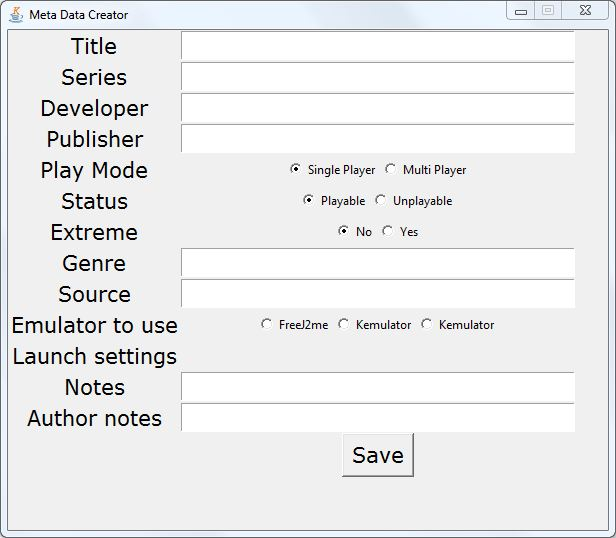
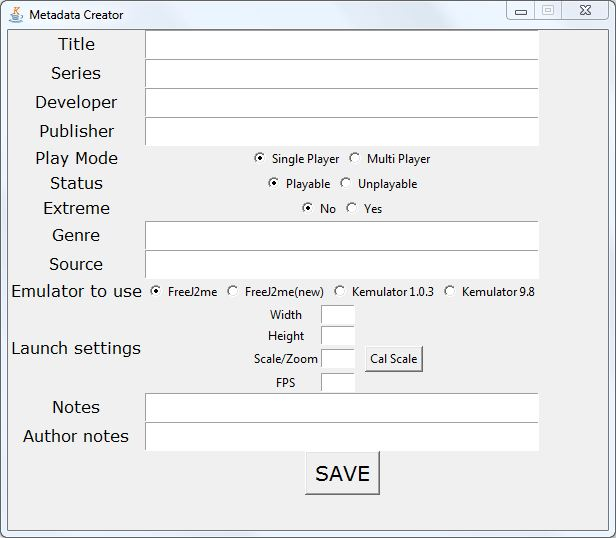
Added a button to calculate zoom/scale
Scale button calculates the zoom level according to the height entered.

diff --git a/Kahvibreak_curation_packager.py b/Kahvibreak_curation_packager.py
@@ -13,10 +13,20 @@ def metadata_window():
     top.iconbitmap('icon.ico')
     top.geometry('600x500')
     top.resizable(False, False)
-    '''def radio_button_function(a):
-        if a==1 or a==2:
-            if a=='''
-            
+    
+    def cal_scale():
+        height=game_height.get()
+        if (height=='128') or (height=='65'):
+            scale_value='400'
+        elif (height=='160'):
+            scale_value='300'
+
+        elif (height=='208') or (height=='220'):
+            scale_value='200'
+        else:
+            scale_value='100'
+        zoom_level.delete(0, END)
+        zoom_level.insert(0,scale_value)
     def save_to_file():
     
         fileout=open('temp/game/meta.txt','w')
@@ -67,7 +77,7 @@ def metadata_window():
     EntryBox=[0]*13
 
     for i in range(0,13):
-        LabelList[i]=Label(top,text=LabelListText[i],font=('Verdana',16))
+        LabelList[i]=Label(top,text=LabelListText[i],font=('Verdana',12))
         LabelList[i].grid(row=i,column=0)
         EntryBox[i]=Entry(top,font=('Verdana', 16), width=30)
         EntryBox[i].grid(row=i, column=1)
@@ -75,9 +85,9 @@ def metadata_window():
 
 
 
-    save_btn=Button(top,font=('Verdana', 16),text="Save",command=save_to_file)
+    save_btn=Button(top,font=('Verdana', 15),text="SAVE",command=save_to_file)
     save_btn.grid(row=14,column=1)
-    
+   
     #radio buttons
     #Play Mode
     EntryBox[4].grid_forget()
@@ -130,9 +140,11 @@ def metadata_window():
     emulator.set('Software\FreeLaunch.bat') #default value
     freej2me=Radiobutton(frame5,text='FreeJ2me', var=emulator,value='Software\FreeLaunch.bat')
     freej2me.pack(side=LEFT)
-    kemulator_new=Radiobutton(frame5,text='Kemulator', var=emulator,value='Software\KLaunch.bat')
+    freej2me_new=Radiobutton(frame5,text='FreeJ2me(new)', var=emulator,value='Software\FreeLaunch0.4.2.bat')
+    freej2me_new.pack(side=LEFT)
+    kemulator_new=Radiobutton(frame5,text='Kemulator 1.0.3', var=emulator,value='Software\KLaunch.bat')
     kemulator_new.pack(side=LEFT)
-    kemulator_old=Radiobutton(frame5,text='Kemulator', var=emulator,value='Software\KLaunch98.bat')
+    kemulator_old=Radiobutton(frame5,text='Kemulator 9.8', var=emulator,value='Software\KLaunch98.bat')
     kemulator_old.pack(side=LEFT)
     
 
@@ -141,29 +153,34 @@ def metadata_window():
     frame6=Frame(top)
     frame6.grid(row=10,column=1)
     
+    
+    cal_scale_btn=Button(frame6,text='Cal Scale',command=cal_scale)
+    cal_scale_btn.grid(row=2,column=2,padx=10)
+    
+    
     game_width_label=Label(frame6, text='Width')
     game_width_label.grid(row=0,column=0)
     
     game_height_label=Label(frame6, text='Height')
     game_height_label.grid(row=1,column=0)
     
-    zoom_level_label=Label(frame6, text='Zoom')
-    zoom_level_label.grid(row=2,column=0)
+    scale_level_label=Label(frame6, text='Scale/Zoom')
+    scale_level_label.grid(row=2,column=0)
     
     fps_label=Label(frame6, text='FPS')
     fps_label.grid(row=3,column=0)
     
     
-    game_width=Entry(frame6, width=3)
+    game_width=Entry(frame6, width=5)
     game_width.grid(row=0,column=1)
     
-    game_height=Entry(frame6, width=3)
+    game_height=Entry(frame6, width=5)
     game_height.grid(row=1,column=1)
     
-    zoom_level=Entry(frame6, width=3)
+    zoom_level=Entry(frame6, width=5)
     zoom_level.grid(row=2,column=1)
     
-    fps=Entry(frame6, width=3)
+    fps=Entry(frame6, width=5)
     fps.grid(row=3,column=1)
     
     
@@ -292,7 +309,9 @@ game_name_entry=Entry(buttons_frame,font=('Verdana', 10), width=30)
 game_name_entry.pack()
 
 
-next=Button(buttons_frame,font=('Verdana', 10),text="Next",state=DISABLED,command = metadata_window)
+#next=Button(buttons_frame,font=('Verdana', 10),text="Next",state=DISABLED,command = metadata_window)
+next=Button(buttons_frame,font=('Verdana', 10),text="Next",command = metadata_window)
+
 next.pack()    
 
 
